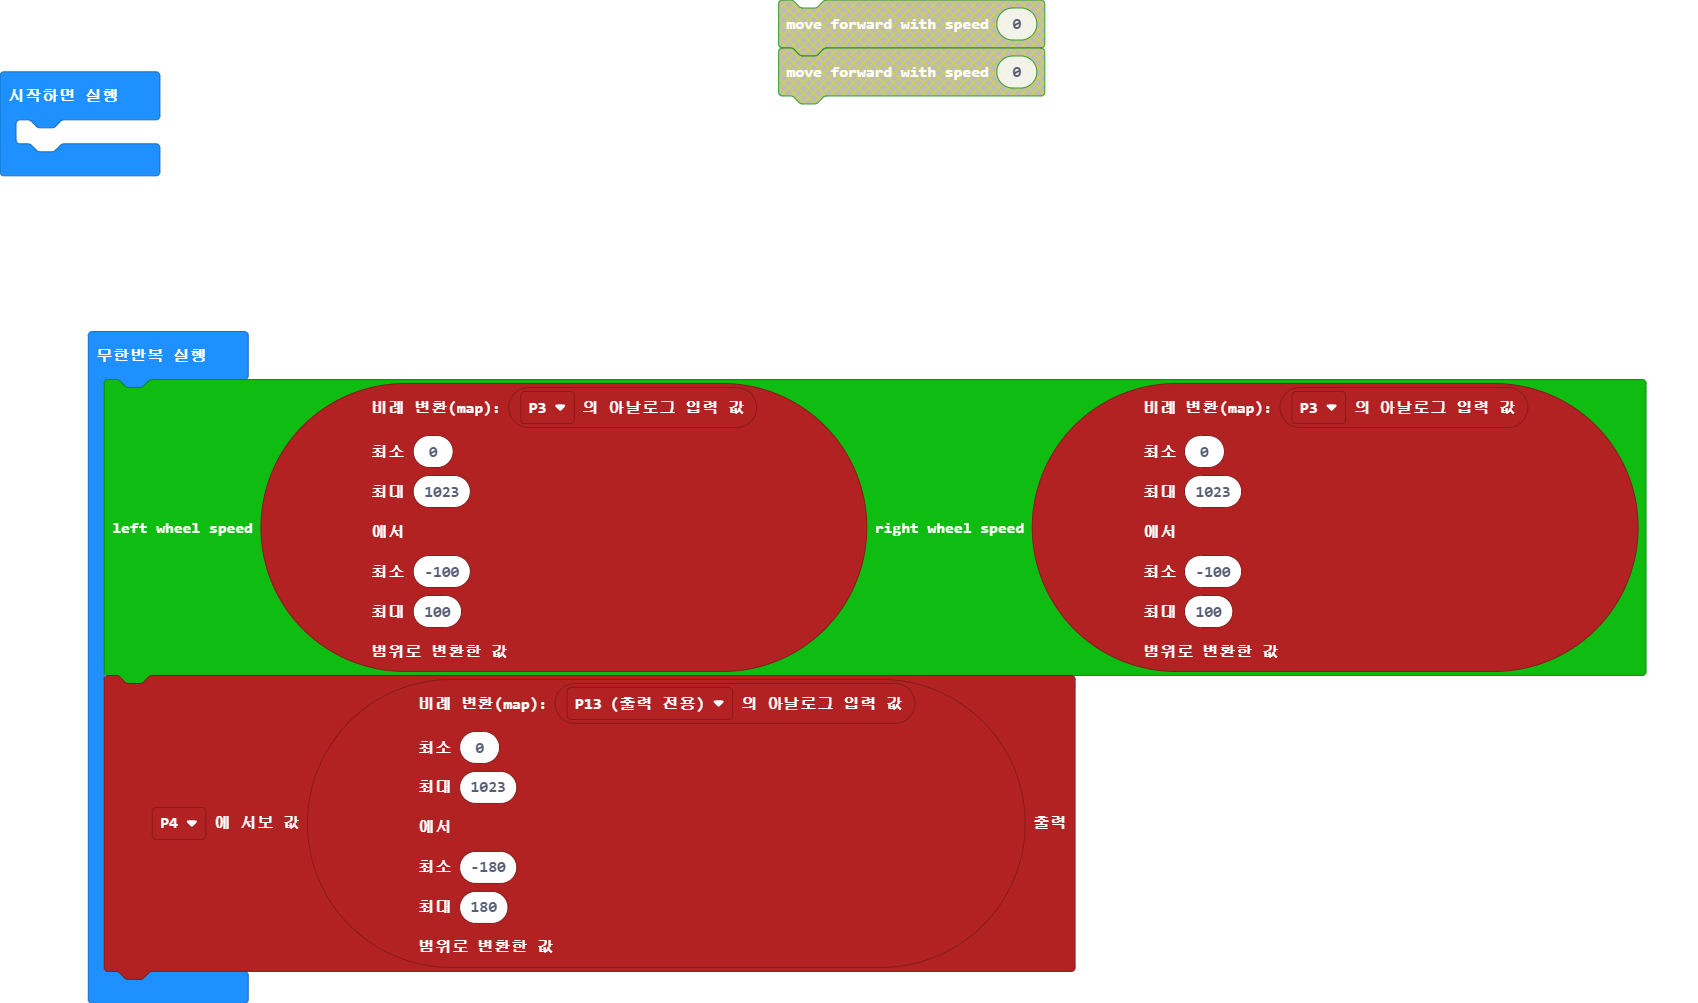
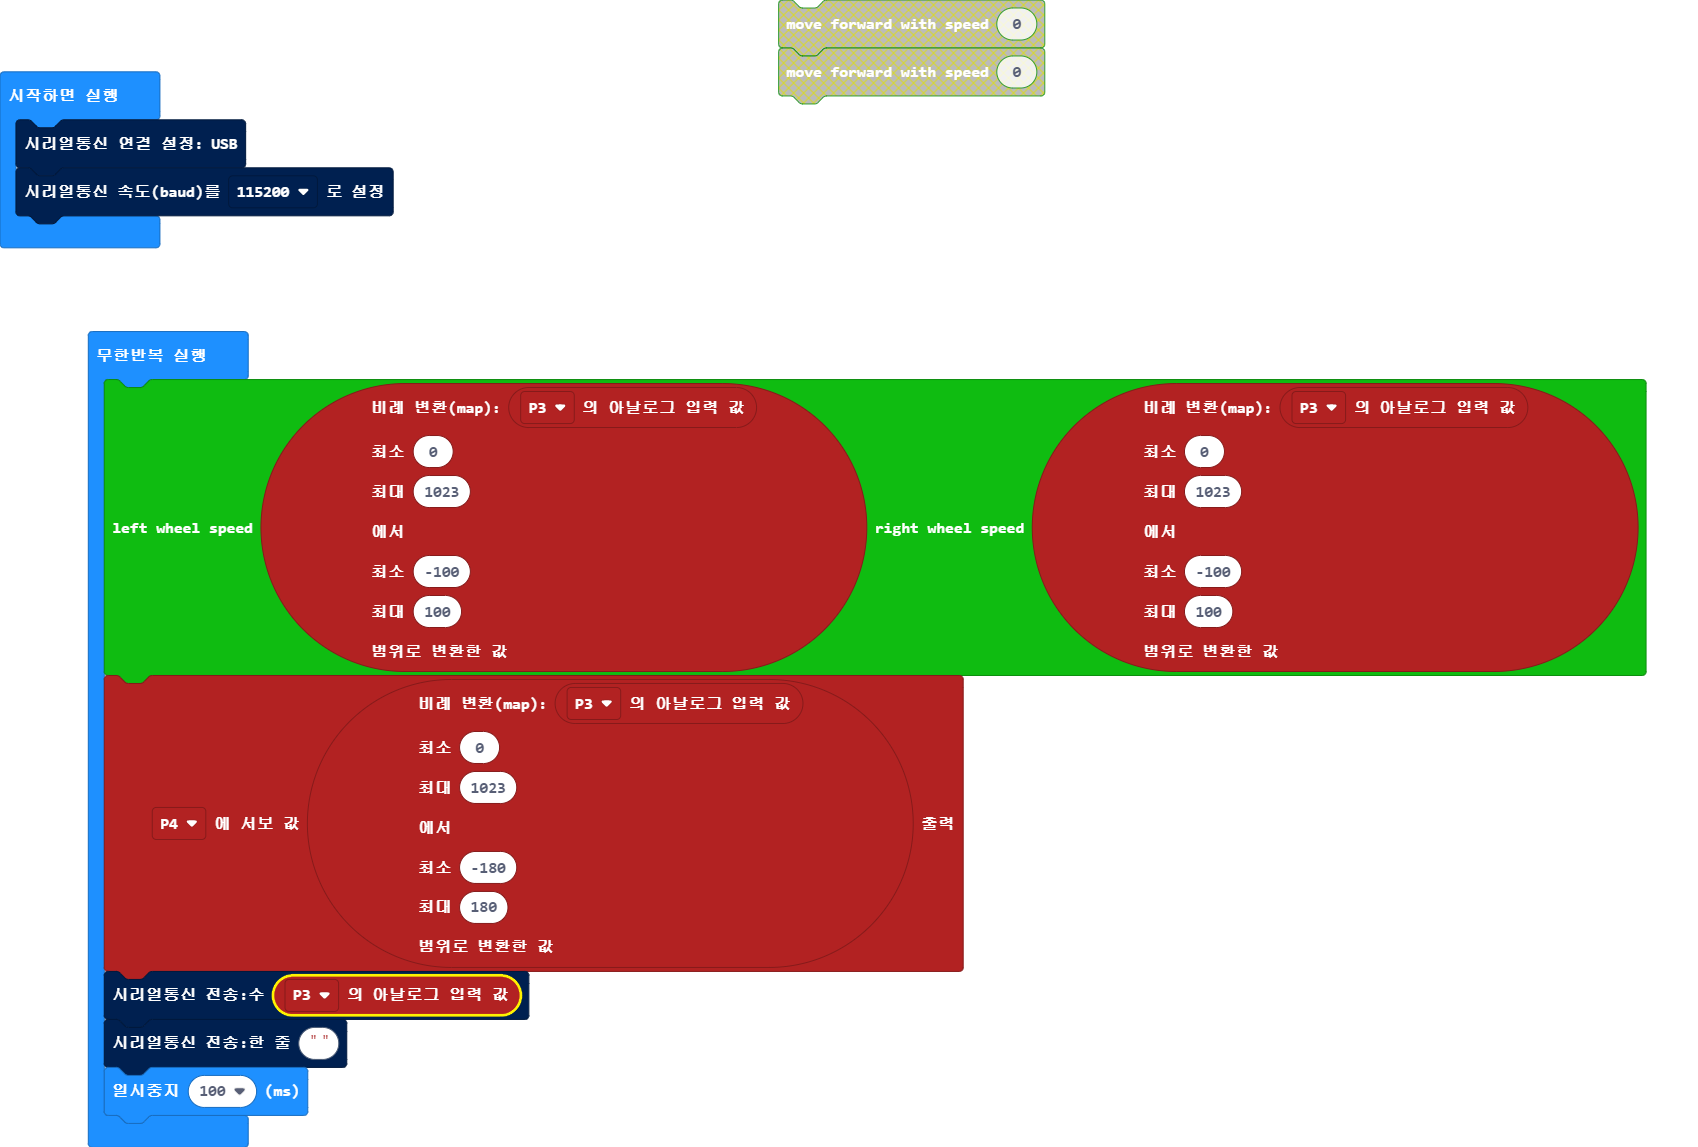
Update main.blocks, main.ts

diff --git a/main.ts b/main.ts
@@ -1,3 +1,5 @@
+serial.redirectToUSB()
+serial.setBaudRate(BaudRate.BaudRate115200)
 basic.forever(function () {
     motorbit.freestyle(pins.map(
     pins.analogReadPin(AnalogPin.P3),
@@ -13,10 +15,13 @@ basic.forever(function () {
     100
     ))
     pins.servoWritePin(AnalogPin.P4, pins.map(
-    pins.analogReadPin(AnalogPin.P13),
+    pins.analogReadPin(AnalogPin.P3),
     0,
     1023,
     -180,
     180
     ))
+    serial.writeNumber(pins.analogReadPin(AnalogPin.P3))
+    serial.writeLine("")
+    basic.pause(100)
 })
